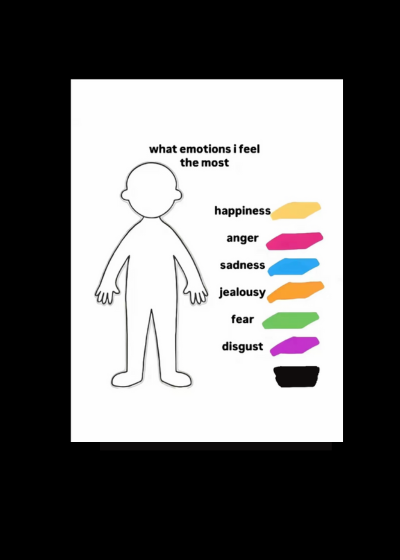
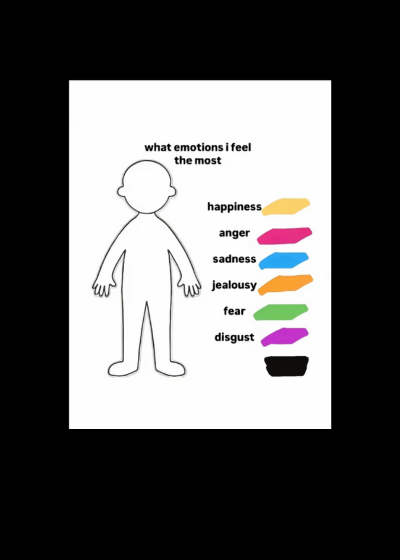
images again

Changed region(s): [[0.15, 0.1214, 0.87, 0.7893]]

diff --git a/noah-kahan/tiktok.html b/noah-kahan/tiktok.html
@@ -12,10 +12,13 @@
           <div class="phone-container tiktok-background">
             <!--<img class="tiktok-bg-video" src="https://raw.githubusercontent.com/mackerelcheese/One-Shots/refs/heads/main/noah-kahan/tiktoktest3.png">-->
             <div class="tiktok-bg-video">
-                <img class="tiktok-imageclip" src="https://raw.githubusercontent.com/mackerelcheese/One-Shots/refs/heads/main/noah-kahan/tt-color1.png">
+                <img class="tiktok-imageclip" src="https://raw.githubusercontent.com/mackerelcheese/One-Shots/refs/heads/main/noah-kahan/tt-person1.png">
             </div>
             <div class="tiktok-bg-video">
-                <img class="tiktok-imageclip" src="https://raw.githubusercontent.com/mackerelcheese/One-Shots/refs/heads/main/noah-kahan/tt-color2.png">
+                <img class="tiktok-imageclip" src="https://raw.githubusercontent.com/mackerelcheese/One-Shots/refs/heads/main/noah-kahan/tt-person2.png">
+            </div>
+            <div class="tiktok-bg-video">
+                <img class="tiktok-imageclip" src="https://raw.githubusercontent.com/mackerelcheese/One-Shots/refs/heads/main/noah-kahan/tt-person3.png">
             </div>
             <div class="tiktok-header">
                 <img class="tiktok-icon" src="https://raw.githubusercontent.com/mackerelcheese/One-Shots/refs/heads/main/noah-kahan/tt-live.png">
@@ -56,15 +59,6 @@
                 </summary>
               </details>
         
-            </div>
-            <div class="snap-controllers">
-                <details><summary><img src="https://i.imgur.com/1PL688W.png" class="snap-fwd" /></summary><img src="https://i.imgur.com/1PL688W.png" class="snap-back" /></details>
-                <details><summary><img src="https://i.imgur.com/1PL688W.png" class="snap-fwd" /></summary><img src="https://i.imgur.com/1PL688W.png" class="snap-back" /></details>
-                <details><summary><img src="https://i.imgur.com/1PL688W.png" class="snap-fwd" /></summary><img src="https://i.imgur.com/1PL688W.png" class="snap-back" /></details>
-        
-                <details><summary><img src="https://i.imgur.com/1PL688W.png" class="snap-fwd" /></summary><img src="https://i.imgur.com/1PL688W.png" class="snap-back" /></details>
-                <details><summary><img src="https://i.imgur.com/1PL688W.png" class="snap-fwd" /></summary><img src="https://i.imgur.com/1PL688W.png" class="snap-back" /></details>
-                <details><summary><img src="https://i.imgur.com/1PL688W.png" class="snap-fwd" /></summary><img src="https://i.imgur.com/1PL688W.png" class="snap-back" /></details>  
             </div>
             <div class="tiktok-footer">
                 <div class="tiktok-con">

diff --git a/noah-kahan/tiktok.css b/noah-kahan/tiktok.css
@@ -28,7 +28,6 @@ figure {
   background: #3a4340;
   color:white;
   position:relative;
-  align-items: center;
 }
 
 .tiktok-background {
@@ -36,10 +35,7 @@ figure {
 }
 
 .tiktok-imageclip {
-    width:300px;
-    margin-top: 50px;
-    margin-left: auto;
-    margin-right: auto;
+    width:400px;
 }
 
 .tiktok-header {
